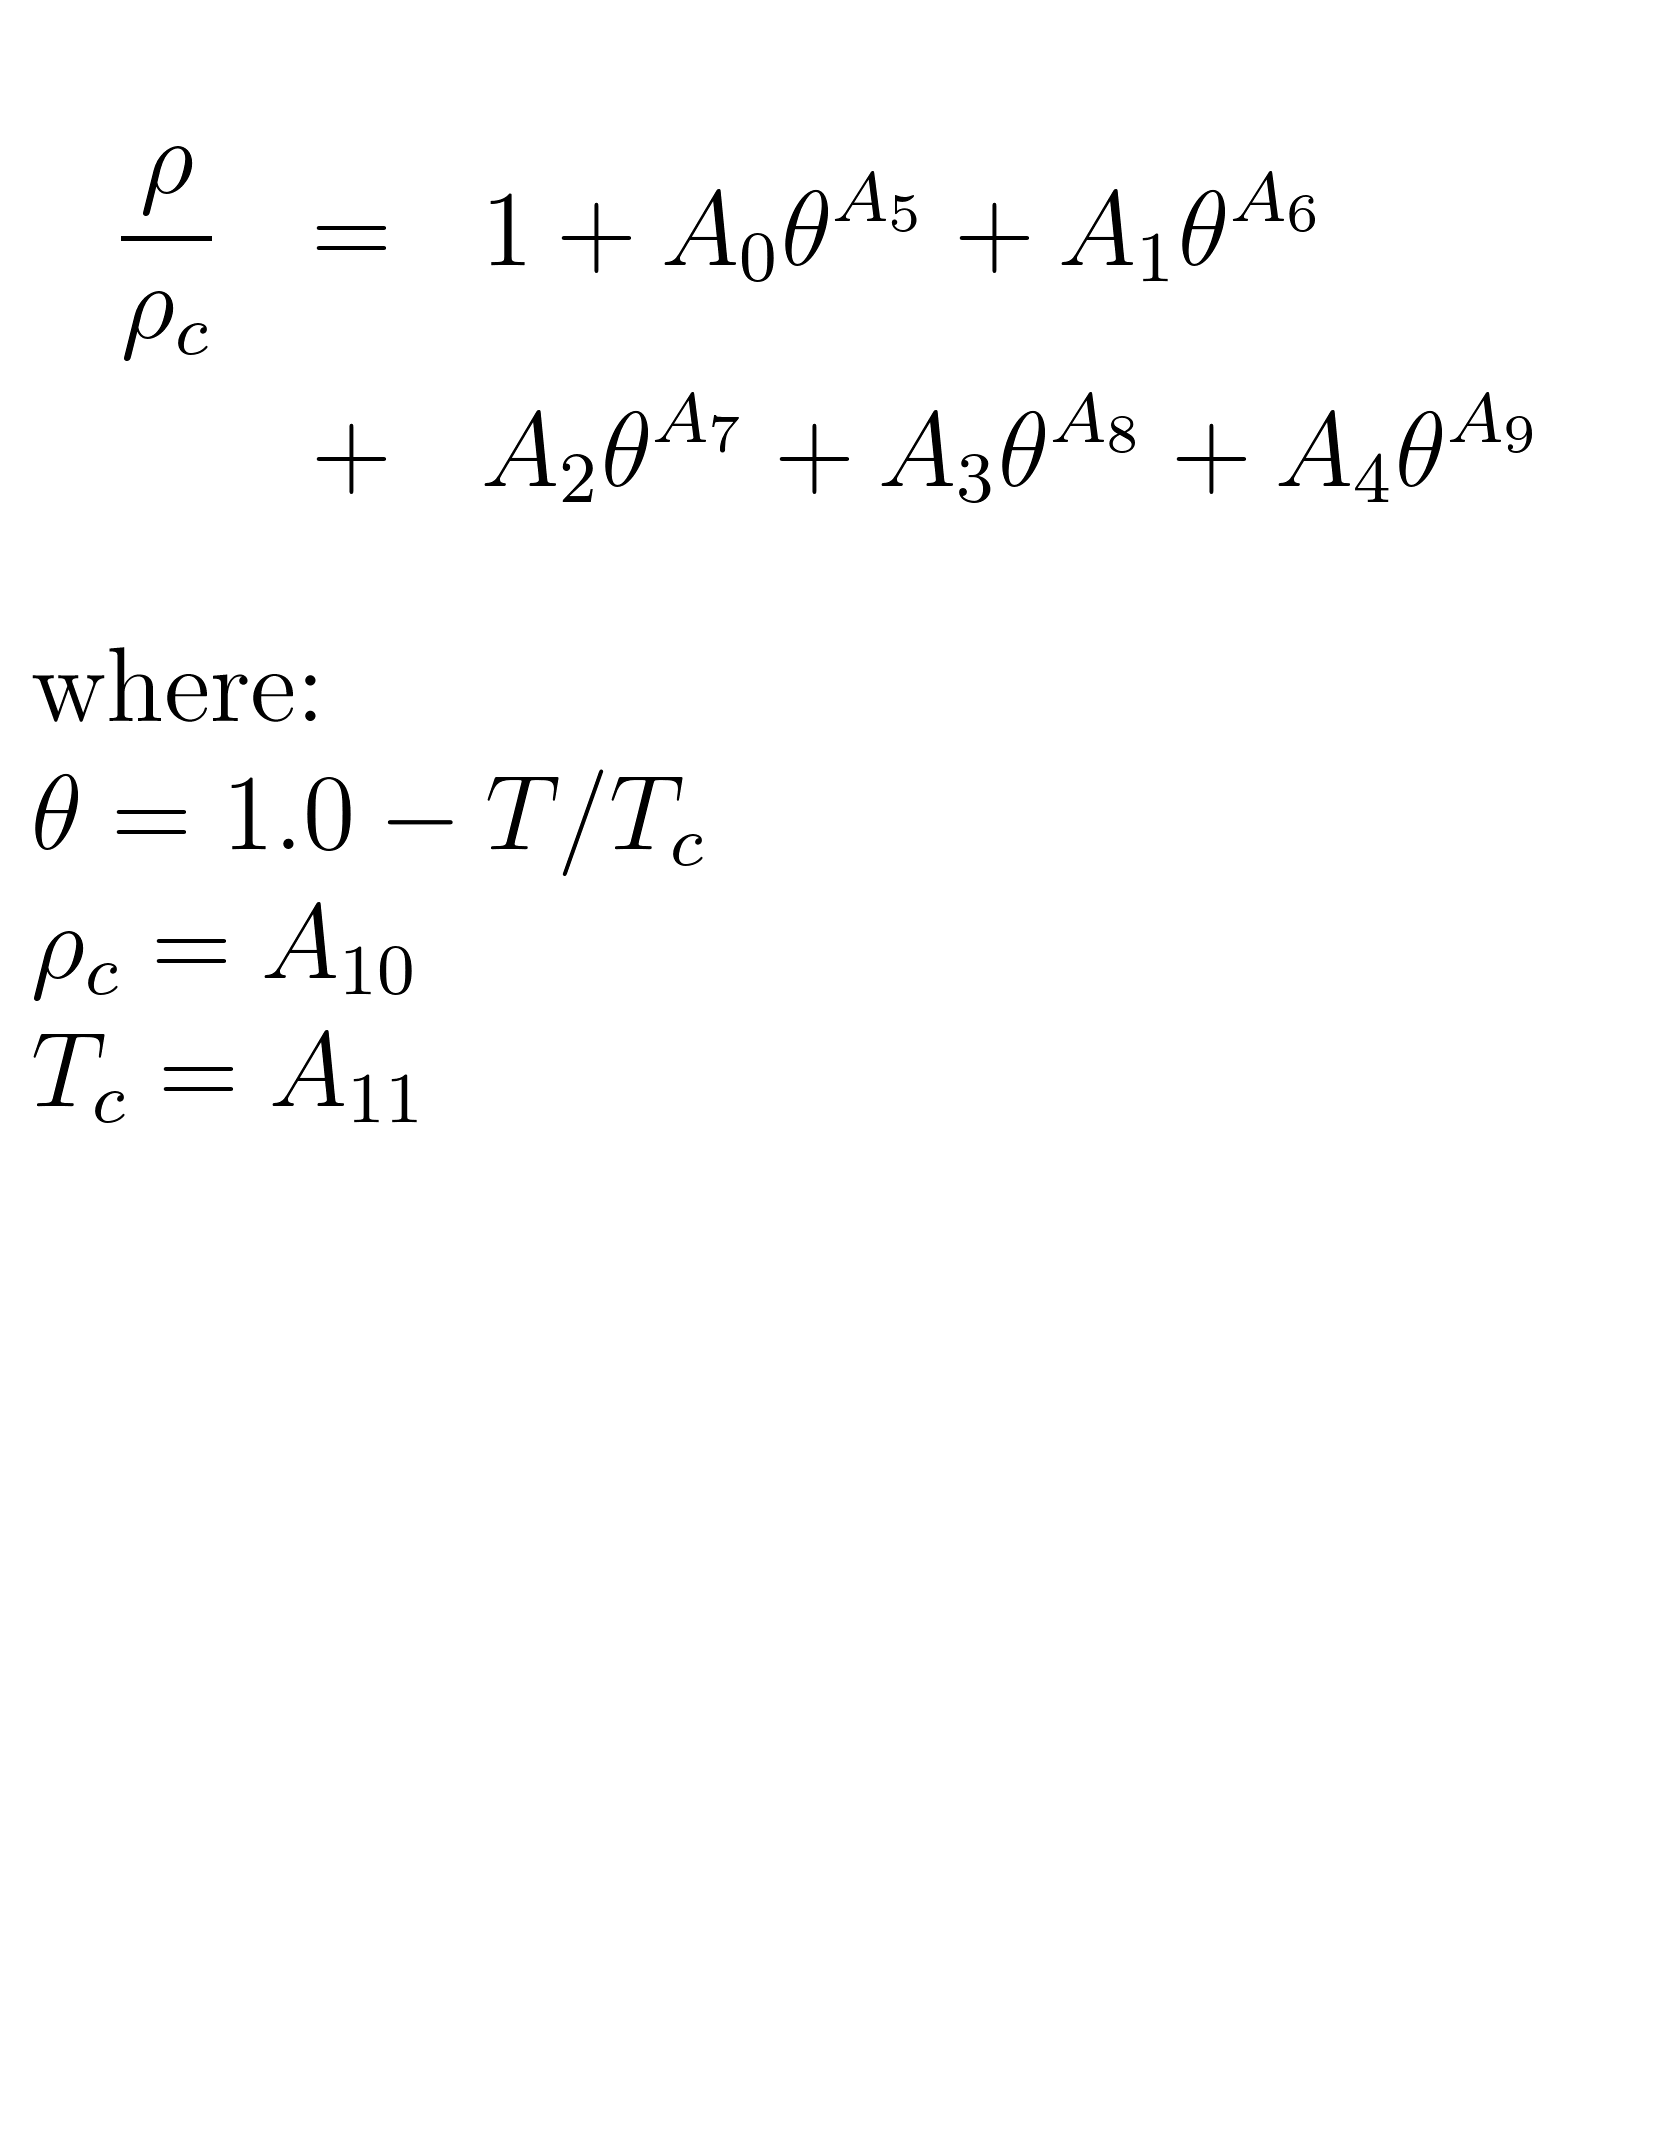
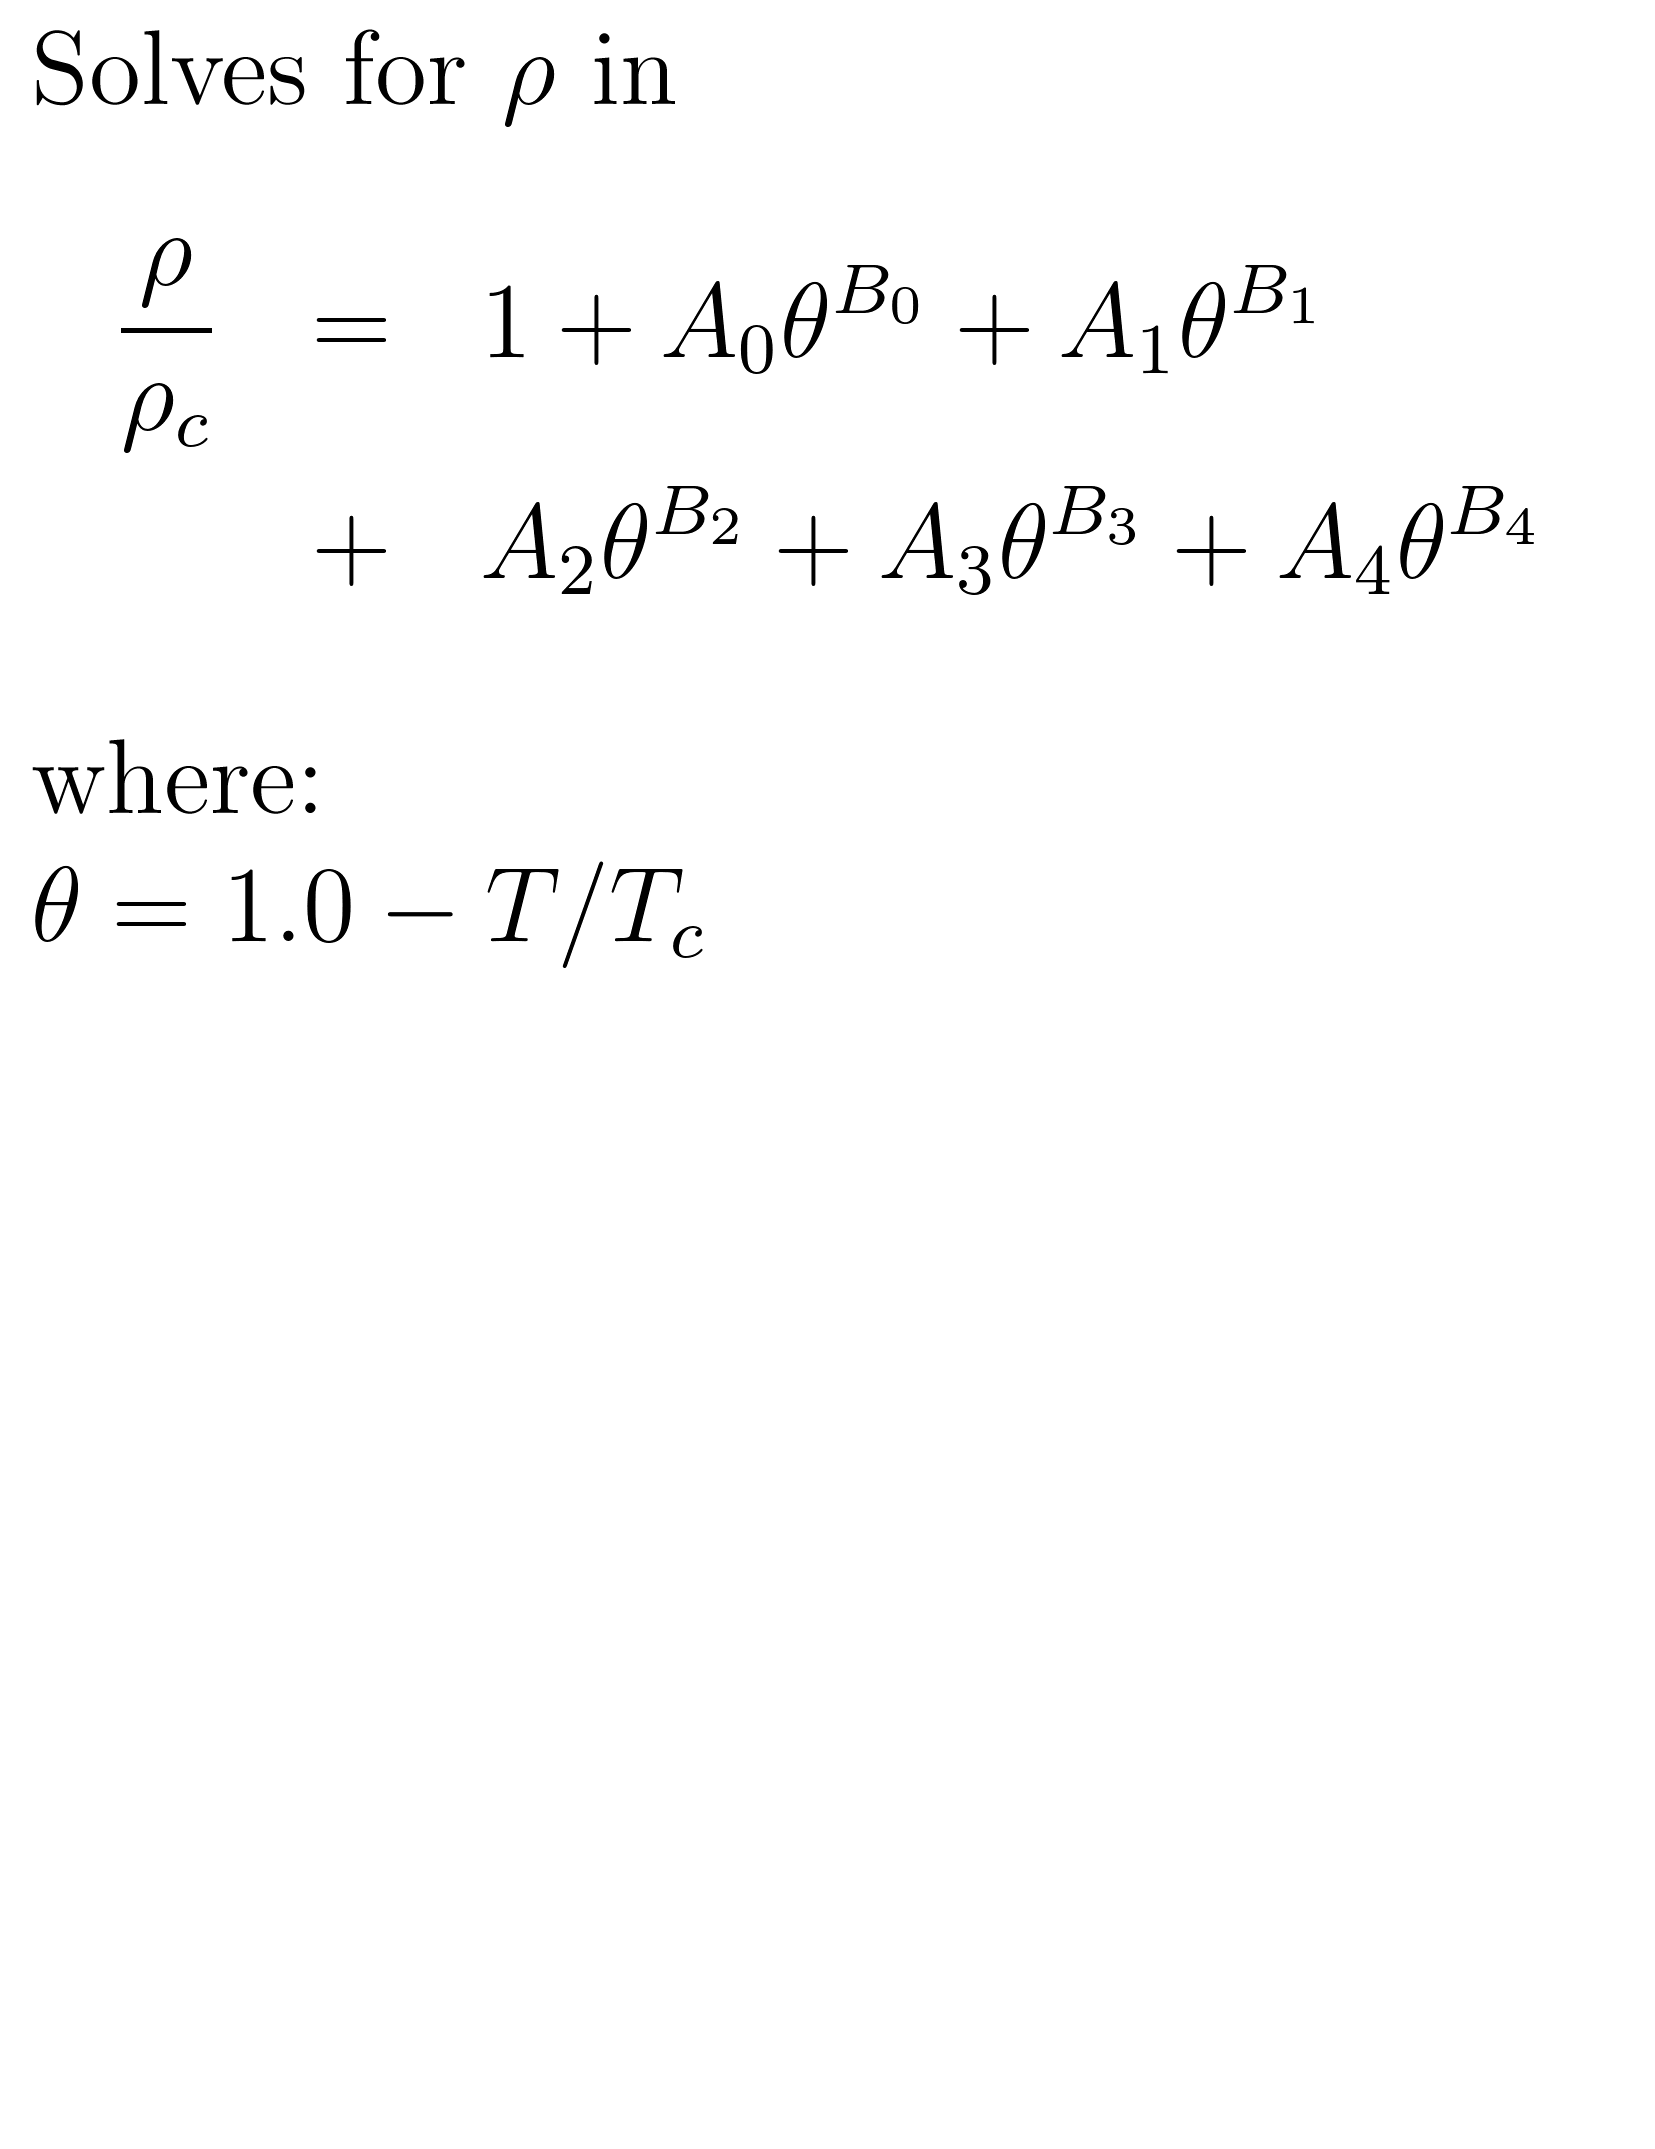
fixed all information for functions and added iapws97_2

diff --git a/polymorph/polymorph/iapws97_2.m b/polymorph/polymorph/iapws97_2.m
@@ -10,6 +10,7 @@
 
 static NSString *name = @"iapws97_2";
 static int nCoeffs = 43;
+static int n0Coeffs = 9;
 
 @implementation iapws97_2
 
@@ -25,7 +26,10 @@ static int nCoeffs = 43;
     _ii = malloc(nCoeffs*sizeof(long double));
     _ji = malloc(nCoeffs*sizeof(long double));
     _ni = malloc(nCoeffs*sizeof(long double));
-    
+
+    _j0i = malloc(n0Coeffs*sizeof(long double));
+    _n0i = malloc(n0Coeffs*sizeof(long double));
+
     for (int i=0; i<nCoeffs; i++)
     {
         _ii[i] = 0.0;
@@ -33,8 +37,15 @@ static int nCoeffs = 43;
         _ni[i] = 0.0;
     }
     
-    _pstar = 16.53e+6;
-    _tstar = 1386.0;
+
+    for (int i=0; i<n0Coeffs; i++)
+    {
+        _j0i[i] = 0.0;
+        _n0i[i] = 0.0;
+    }
+    
+    _pstar = 1.0e+6;
+    _tstar = 540.0;
     _R = 461.526;
     
     return self;
@@ -47,7 +58,10 @@ static int nCoeffs = 43;
     _ii = malloc(nCoeffs*sizeof(long double));
     _ji = malloc(nCoeffs*sizeof(long double));
     _ni = malloc(nCoeffs*sizeof(long double));
-    
+
+    _j0i = malloc(n0Coeffs*sizeof(long double));
+    _n0i = malloc(n0Coeffs*sizeof(long double));
+
     for (int i=0; i<nCoeffs; i++)
     {
         NSDictionary *Aidict = [array objectAtIndex:i];
@@ -68,9 +82,25 @@ static int nCoeffs = 43;
         
     }
     
-    _tstar = [[[array objectAtIndex:nCoeffs*3] objectForKey:@"Tstar"] doubleValue];
-    _pstar = [[[array objectAtIndex:nCoeffs*3+1] objectForKey:@"Pstar"] doubleValue];
-    _R     = [[[array objectAtIndex:nCoeffs*3+2] objectForKey:@"R"] doubleValue];
+    for (int i=0; i<n0Coeffs; i++)
+    {
+        NSDictionary *Ajdict = [array objectAtIndex:i+3*nCoeffs];
+        NSDictionary *Andict = [array objectAtIndex:i+3*nCoeffs + n0Coeffs];
+        
+        NSString *jname = [NSString stringWithFormat:@"j0_%d", i+1];
+        NSString *nname = [NSString stringWithFormat:@"n0_%d", i+1];
+        
+        NSNumber *ajk = [Ajdict objectForKey:jname];
+        NSNumber *ank = [Andict objectForKey:nname];
+        
+        _j0i[i] = [ajk doubleValue];
+        _n0i[i] = [ank doubleValue];
+        
+    }
+
+    _tstar = [[[array objectAtIndex:nCoeffs*3+2*n0Coeffs] objectForKey:@"Tstar"] doubleValue];
+    _pstar = [[[array objectAtIndex:nCoeffs*3+2*n0Coeffs + 1] objectForKey:@"Pstar"] doubleValue];
+    _R     = [[[array objectAtIndex:nCoeffs*3+2*n0Coeffs + 2] objectForKey:@"R"] doubleValue];
     
     return self;
 }
@@ -99,7 +129,7 @@ static int nCoeffs = 43;
 
 -(int)nCoefficients
 {
-    return 105; //44*3 + 3;
+    return nCoeffs*3 + n0Coeffs*2 + 3;
 }
 
 - (NSString *)equationText
@@ -332,6 +362,19 @@ static int nCoeffs = 43;
     for (int i=0; i<nCoeffs; i++)
     {
         NSString *name = [[NSString alloc] initWithFormat:@"n%d", i+1];
+        [names addObject:name];
+    }
+    
+
+    for (int i=0; i<n0Coeffs; i++)
+    {
+        NSString *name = [[NSString alloc] initWithFormat:@"j0_%d", i+1];
+        [names addObject:name];
+    }
+    
+    for (int i=0; i<n0Coeffs; i++)
+    {
+        NSString *name = [[NSString alloc] initWithFormat:@"n0_%d", i+1];
         [names addObject:name];
     }
     

diff --git a/polymorph/polymorph/FJ_Rho.tex b/polymorph/polymorph/FJ_Rho.tex
@@ -29,12 +29,10 @@ and
 \[
 \delta = \rho/\rho_c,\tau = T_c/T
 \]
-$i_k = A_k, j_k = A_{k+23}, l_k = A_{k+2*23},$\\
-$N_k = A_{k+3*23}$ for $k=0..22$\\
-$T_c = A_{92}, p_c = A_{93}, \rho_c = A_{94}, M_w = A_{95}$\\
-
-\small{The functions for $P_v$, $\rho_{l,sat}$, $\rho_{v,sat}$ are needed for 
+where $\gamma=1$ if $l_k \neq 0$
+and $\gamma=0$ otherwise.\vspace{10pt}\\
+\small{Depends on the functions for $P_v$, $\rho_{l,sat}$, $\rho_{v,sat}$ for 
 making the initial guess for $\rho$.}
-\vspace{0pt}\\
+\vspace{17pt}\\
 }
 \end{document}

diff --git a/polymorph/polymorph/ancillary_2.tex b/polymorph/polymorph/ancillary_2.tex
@@ -18,13 +18,13 @@
 \pagestyle{empty}
 \begin{document}
 \cfbox{white}{
+Solves for $\rho$ in
 \begin{eqnarray*}
-\frac{\rho}{\rho_c} &=& 1 + A_0 \theta^{A_5} + A_1 \theta^{A_6}\\
-&+& A_2 \theta^{A_7} + A_3 \theta^{A_8} + A_4 \theta^{A_9} 
+\frac{\rho}{\rho_c} &=& 1 + A_0 \theta^{B_0} + A_1 \theta^{B_1}\\
+&+& A_2 \theta^{B_2} + A_3 \theta^{B_3} + A_4 \theta^{B_4} 
 \end{eqnarray*}
 where:\\
 $\theta = 1.0 - T/T_c$\\
-$\rho_c = A_{10}$\\
-$T_c = A_{11}$\vspace{100pt}\\
+\vspace{104pt}\\
 }
 \end{document}

diff --git a/polymorph/polymorph/ancillary_3.tex b/polymorph/polymorph/ancillary_3.tex
@@ -18,13 +18,13 @@
 \pagestyle{empty}
 \begin{document}
 \cfbox{white}{
+Solves for $\rho$ in
 \begin{eqnarray*}
-\ln \frac{\rho}{\rho_c} &=& A_0 \theta^{A_4}+ A_1\theta^{A_5}\\
-&+& A_2\theta^{A_6} + A_3\theta^{A_7}
+\ln \frac{\rho}{\rho_c} &=& A_0 \theta^{B_0}+ A_1\theta^{B_1}\\
+&+& A_2\theta^{B_2} + A_3\theta^{B_3}
 \end{eqnarray*}
 where:\\
-$\theta = 1.0 - T/T_c$\\
-$\rho_c = A_8$\\
-$T_c = A_9$\vspace{97pt}\\
+$\theta = 1 - T/T_c$
+\vspace{118pt}\\
 }
 \end{document}

diff --git a/polymorph/polymorph/iapws97_2.h b/polymorph/polymorph/iapws97_2.h
@@ -7,12 +7,16 @@
 //
 
 #import <Foundation/Foundation.h>
+#import "functionValue.h"
 
-@interface iapws97_2 : NSObject
+@interface iapws97_2 : NSObject <functionValue>
 
 @property (nonatomic) long double *ii;
 @property (nonatomic) long double *ji;
 @property (nonatomic) long double *ni;
+
+@property (nonatomic) long double *j0i;
+@property (nonatomic) long double *n0i;
 
 @property (nonatomic) long double tstar;
 @property (nonatomic) long double pstar;

diff --git a/polymorph/polymorph/ancillary_4.tex b/polymorph/polymorph/ancillary_4.tex
@@ -21,10 +21,6 @@
 \[
 \frac{y}{R} = A_0 + \sum_{i=1}^{4} A_i \frac{(\theta_i/T)^2 \exp (\theta_i/T )}{[\exp (\theta_i/T) - 1 ]^2}
 \]
-where
-\[
-\theta_i = A_{i+4}, R=A_{9}
-\]
-\vspace{97pt}\\
+\vspace{159pt}\\
 }
 \end{document}

diff --git a/polymorph/polymorph/polymorphViewController.m b/polymorph/polymorph/polymorphViewController.m
@@ -64,6 +64,7 @@
     [_functionNames addObject:[sutherland name]];
     
     [_functionNames addObject:[iapws97_1 name]];
+    [_functionNames addObject:[iapws97_2 name]];
 
 }
 

diff --git a/polymorph/polymorph/functions.h b/polymorph/polymorph/functions.h
@@ -38,6 +38,7 @@
 #import "sutherland.h"
 
 #import "iapws97_1.h"
+#import "iapws97_2.h"
 
 @interface functions : NSObject
 
